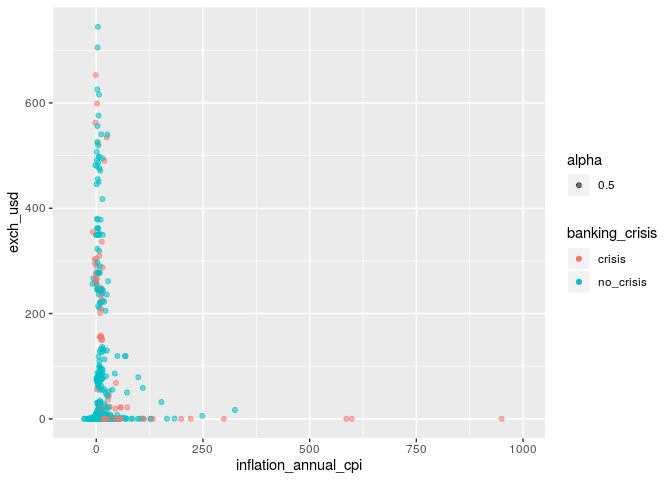
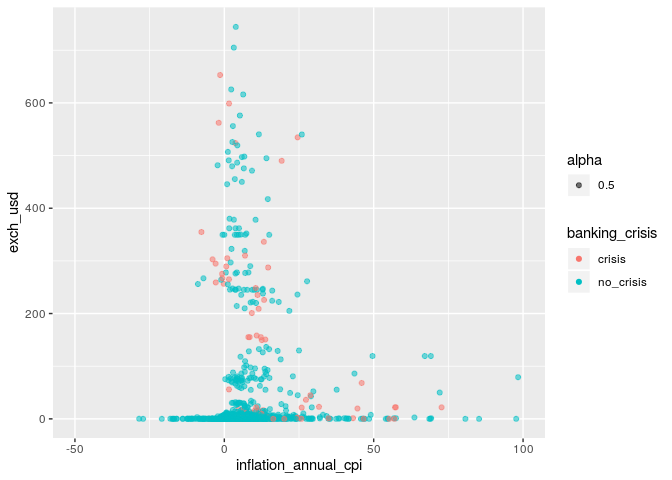
Completed narrative for my section of EDA

diff --git a/proposal/proposal.md b/proposal/proposal.md
@@ -8,14 +8,14 @@ Six-Thirty-Eight
 library(tidyverse)
 ```
 
-    ## ── Attaching packages ────────────────────────────────────────────────────── tidyverse 1.2.1 ──
+    ## ── Attaching packages ───────────────────────────────────────────────────── tidyverse 1.2.1 ──
 
     ## ✔ ggplot2 3.2.1     ✔ purrr   0.3.2
     ## ✔ tibble  2.1.3     ✔ dplyr   0.8.3
     ## ✔ tidyr   1.0.0     ✔ stringr 1.4.0
     ## ✔ readr   1.3.1     ✔ forcats 0.4.0
 
-    ## ── Conflicts ───────────────────────────────────────────────────────── tidyverse_conflicts() ──
+    ## ── Conflicts ──────────────────────────────────────────────────────── tidyverse_conflicts() ──
     ## ✖ dplyr::filter() masks stats::filter()
     ## ✖ dplyr::lag()    masks stats::lag()
 
@@ -89,19 +89,38 @@ output %>%
 
 We see that the median amount of years a country will first encounter a
 banking crisis after they achieve independence is about 30 years, with
-an interquartile range of 11
-years.
+an interquartile range of 11 years. This brings us to an interesting
+question - what values characterize countries that had a long period of
+economic prosperity after independence, and what characterizes countries
+that saw immediate financial
+crises?
 
 ``` r
 ggplot(data = africa, mapping = aes(x = inflation_annual_cpi, y = exch_usd, color = banking_crisis, alpha = 0.5)) +
   geom_point() + 
-  xlim(-50, 1000)
+  xlim(-50, 100)
 ```
 
-    ## Warning: Removed 6 rows containing missing values (geom_point).
+    ## Warning: Removed 25 rows containing missing values (geom_point).
 
 ![](proposal_files/figure-gfm/inflation-crisis-relationship-1.png)<!-- -->
-We see that in general,
+
+``` r
+ggplot(data = africa, mapping = aes(x = inflation_annual_cpi, y = exch_usd, color = banking_crisis)) +
+  geom_point() + 
+  xlim(-10, 100)
+```
+
+    ## Warning: Removed 47 rows containing missing values (geom_point).
+
+![](proposal_files/figure-gfm/inflation-crisis-relationship-2.png)<!-- -->
+We see that high levels of inflation often correspond to banking crises
+- but this is not always true. There were many cases of banking crises
+that existed even when inflation was lower than typical. Moreover,
+banking crises also tended to exist when exchange rates against the
+dollar were high. This could point to a pretty interesting research
+question - what levels of inflation and exchange rate against the dollar
+will signal a banking crisis (or any crisis in general?)
 
 ### Section 3. Research questions
 
